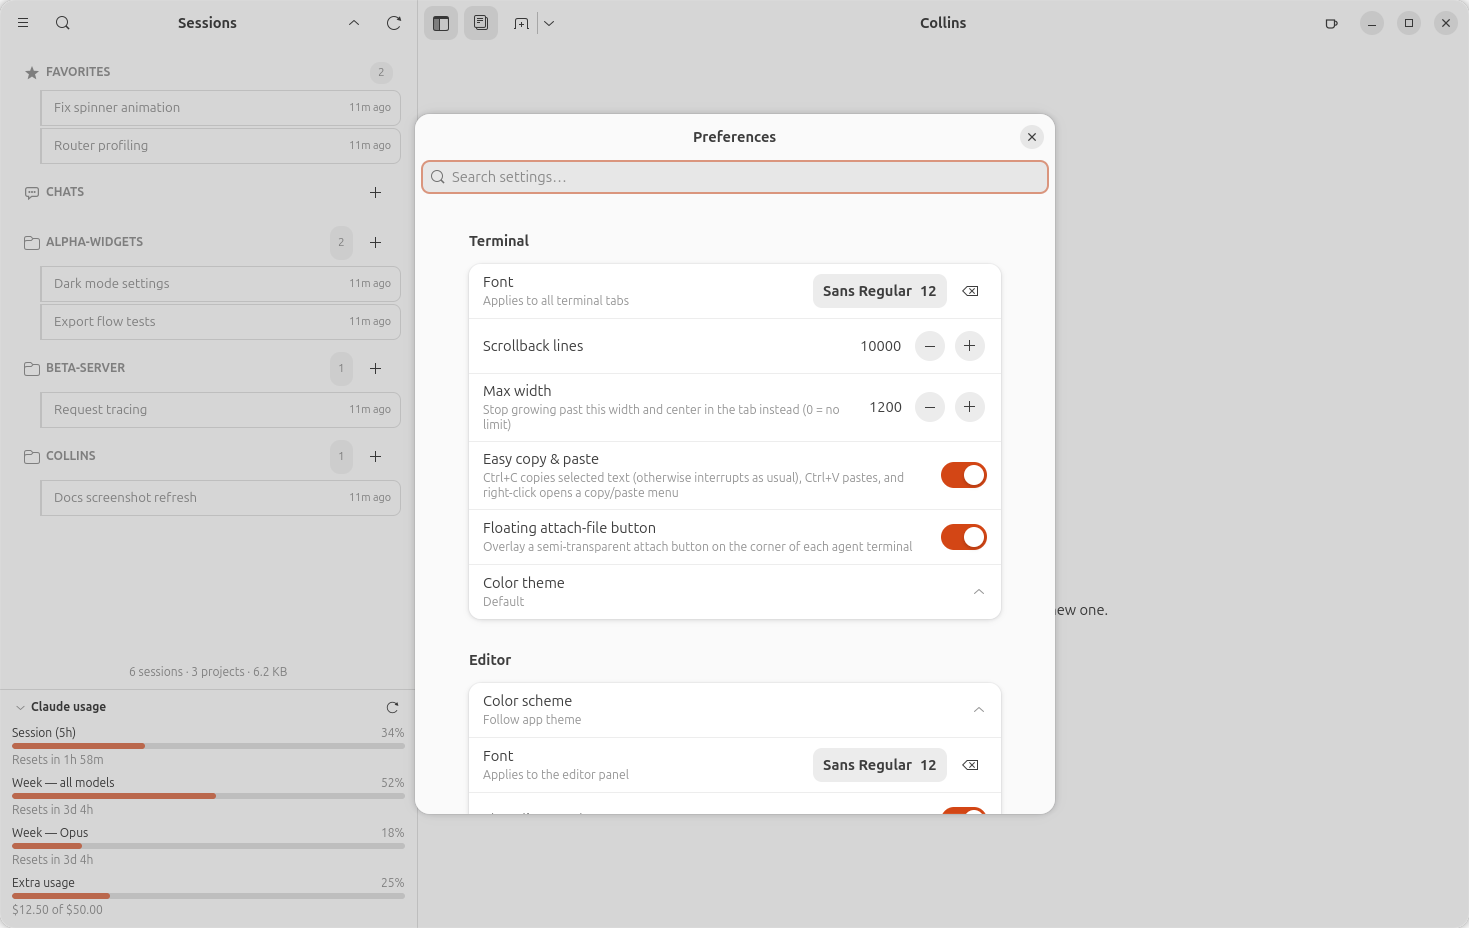
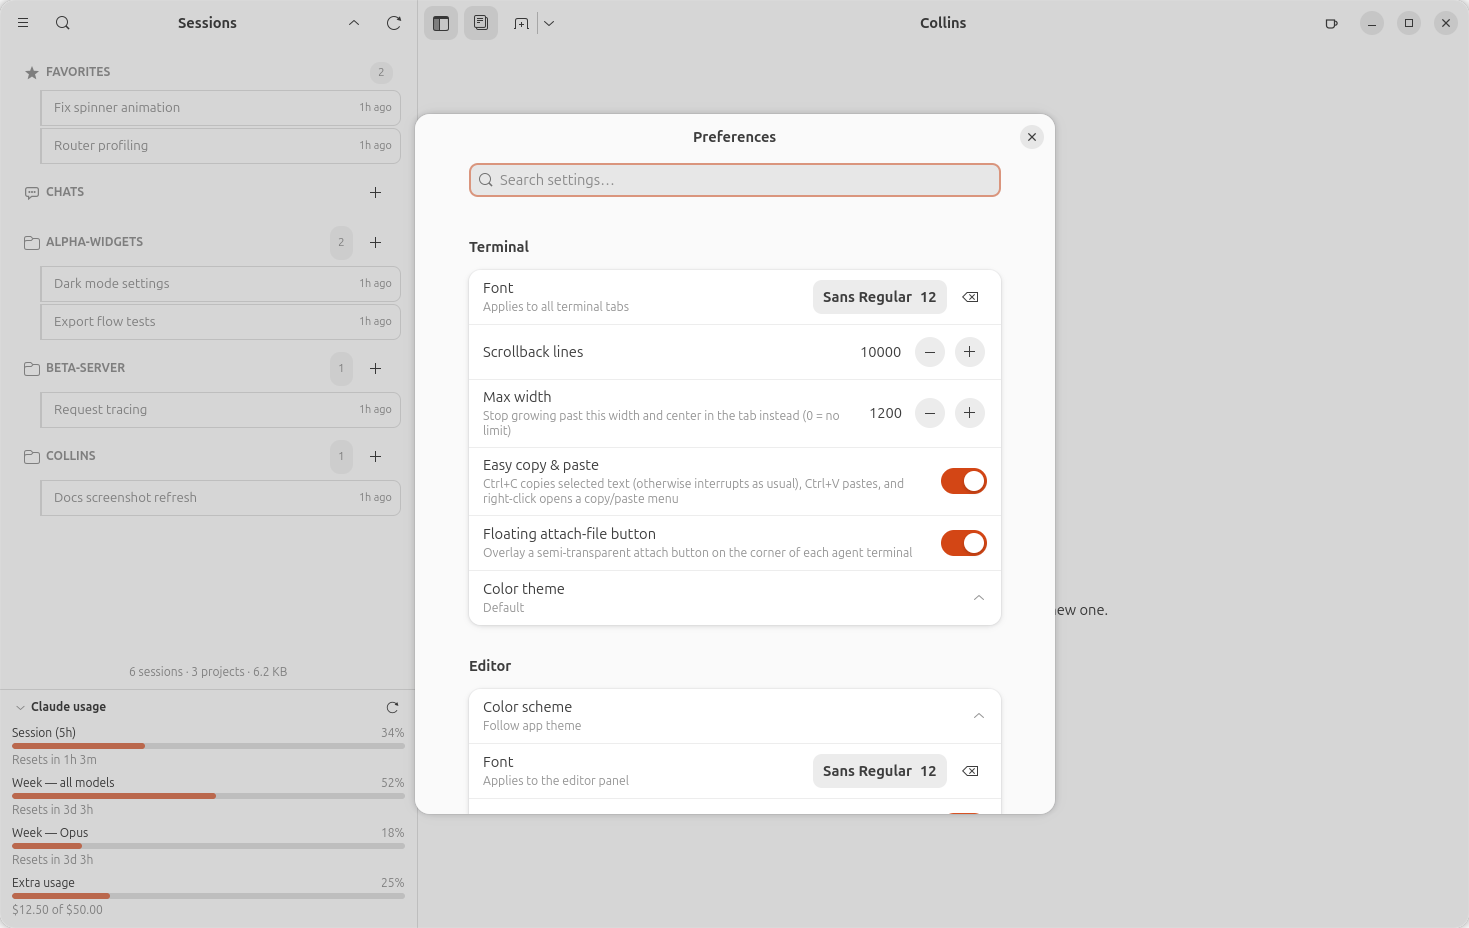
style(prefs): the search box lines up with the setting rows
The search bar ran the full width of the dialog while the settings below
it sit inset, so its edges cut past every card by about 50px.

Matching that inset takes the same clamp the page uses, not a fixed
margin: Adw.Clamp eases the gap open between its tightening threshold and
its maximum, so the rows sit 12px in at a 360px-wide dialog and 54px in at
640px. The search box now goes through an Adw.Clamp with the same two
numbers and the same 12px margin on the clamped child.

Measured against the first settings group across five dialog widths — the
box and the rows agree exactly at each:

```
content_width=640: group=(434,532) entry=(434,532) MATCH
content_width=560: group=(451,497) entry=(451,497) MATCH
content_width=480: group=(477,445) entry=(477,445) MATCH
content_width=400: group=(512,376) entry=(512,376) MATCH
content_width=360: group=(532,336) entry=(532,336) MATCH
```

Claude-Session: https://claude.ai/code/session_01LqJRkpHv62MXDgx9vm4Dv9

diff --git a/collins/prefs.py b/collins/prefs.py
@@ -475,9 +475,19 @@ class PreferencesDialog(Adw.Dialog):
         self._stack.add_named(page, "settings")
         self._stack.add_named(self._no_results, "no-results")
 
-        search_bar = Gtk.Box(orientation=Gtk.Orientation.HORIZONTAL)
-        search_bar.add_css_class("toolbar")
-        search_bar.append(self._search_entry)
+        # The box lines up with the setting rows rather than running the full
+        # width of the dialog. Reproducing that inset takes the same clamp the
+        # page uses, not a fixed margin: Adw.Clamp eases the gap open between
+        # its tightening threshold and its maximum, so the rows sit 12px in at
+        # 360px wide and 54px in at 640px. Same two numbers, same 12px margin
+        # on the clamped child, and the two agree at every width.
+        self._search_entry.set_margin_start(12)
+        self._search_entry.set_margin_end(12)
+        self._search_entry.set_margin_top(6)
+        self._search_entry.set_margin_bottom(6)
+        search_bar = Adw.Clamp(
+            child=self._search_entry, maximum_size=600, tightening_threshold=400
+        )
 
         toolbar_view = Adw.ToolbarView(content=self._stack)
         toolbar_view.add_top_bar(Adw.HeaderBar())
